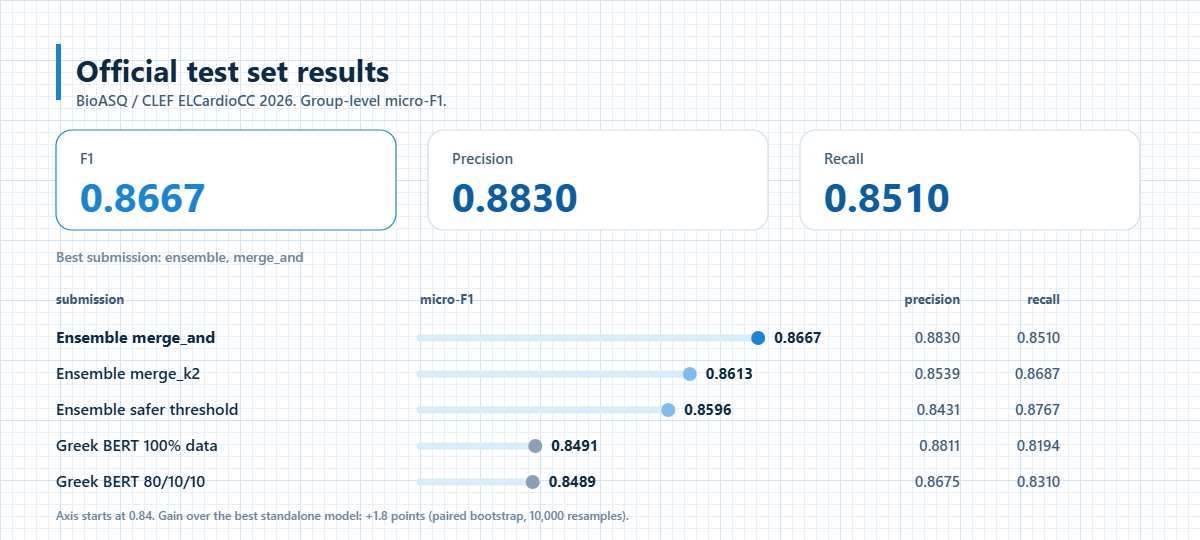
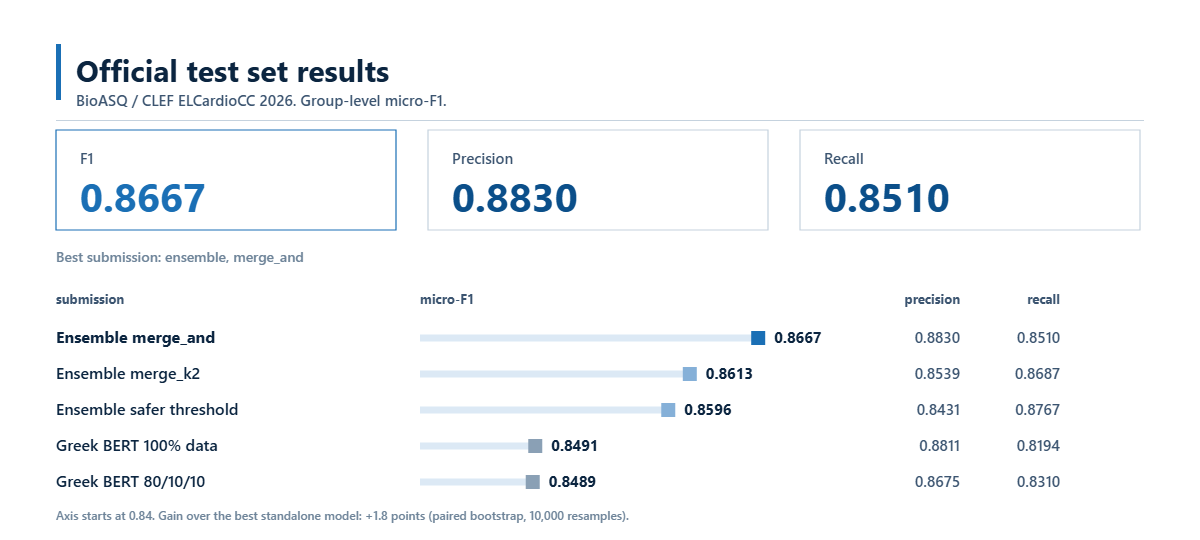
Restyle README animations: plain white, square corners, hairline borders, square markers

diff --git a/docs/readme-demo/common.js b/docs/readme-demo/common.js
@@ -2,19 +2,19 @@
 // render.py calls seek for every frame. Open a scene with ?play to watch it live.
 const C = {
   bg: "#ffffff",
-  panel: "#f3f8fd",
-  grid: "#e6f0f9",
-  gridStrong: "#d3e4f3",
-  rule: "#cfdeeb",
-  ink: "#0f2a43",
-  soft: "#3d5a75",
+  panel: "#f5f8fb",
+  grid: "#e8eef4",
+  gridStrong: "#d5dfe9",
+  rule: "#c5d2de",
+  ink: "#0b2540",
+  soft: "#3b5470",
   muted: "#6e8499",
-  accent: "#1b84d1",
-  accentDeep: "#0d5da0",
-  accentSoft: "#d9ecfa",
+  accent: "#1a6fb5",
+  accentDeep: "#0b4f8a",
+  accentSoft: "#dce9f5",
   slate: "#8aa0b5",
   // sequential accent ramp, light to deep
-  ramp: ["#e3f1fc", "#b8dbf5", "#7fbbec", "#3f97dd", "#0d5da0"],
+  ramp: ["#e6eff8", "#bcd4ea", "#85b0d8", "#3f84c0", "#0b4f8a"],
 };
 const W = 1200;
 const H = 675;
@@ -48,6 +48,7 @@ function text(ctx, s, x, y, o = {}) {
   ctx.font = `${o.weight ?? 500} ${o.size ?? 16}px ${o.mono ? MONO : FONT}`;
   ctx.textAlign = o.align ?? "left";
   ctx.textBaseline = o.base ?? "alphabetic";
+  ctx.letterSpacing = `${o.spacing ?? 0}px`;
   ctx.fillText(s, x, y);
   ctx.restore();
 }
@@ -56,7 +57,7 @@ function rrect(ctx, x, y, w, h, r, fill, stroke, alpha = 1) {
   ctx.save();
   ctx.globalAlpha = alpha;
   ctx.beginPath();
-  ctx.roundRect(x, y, w, h, r);
+  ctx.rect(x, y, w, h); // square corners: r is kept so callers stay unchanged
   if (fill) {
     ctx.fillStyle = fill;
     ctx.fill();
@@ -69,24 +70,9 @@ function rrect(ctx, x, y, w, h, r, fill, stroke, alpha = 1) {
   ctx.restore();
 }
 
-// ECG-paper grid behind everything: small squares every 12 px, bold every 60 px.
-function paper(ctx, w = W, h = H) {
-  ctx.save();
-  for (const [step, col] of [[12, C.grid], [60, C.gridStrong]]) {
-    ctx.strokeStyle = col;
-    ctx.lineWidth = 1;
-    ctx.beginPath();
-    for (let x = 0; x <= w; x += step) {
-      ctx.moveTo(x + 0.5, 0);
-      ctx.lineTo(x + 0.5, h);
-    }
-    for (let y = 0; y <= h; y += step) {
-      ctx.moveTo(0, y + 0.5);
-      ctx.lineTo(w, y + 0.5);
-    }
-    ctx.stroke();
-  }
-  ctx.restore();
+// Square marker, used wherever a dot would be.
+function sq(ctx, x, y, r) {
+  ctx.rect(x - r, y - r, 2 * r, 2 * r);
 }
 
 // Title block: small accent tick, title, one plain caption line.
@@ -96,12 +82,17 @@ function head(ctx, title, sub, alpha = 1, step = "") {
   ctx.fillStyle = C.accent;
   ctx.fillRect(56, 44, 5, 56);
   ctx.restore();
-  if (step) text(ctx, step, 76, 54, { size: 13, weight: 700, color: C.accent, alpha });
+  if (step) text(ctx, step, 76, 54, { size: 12, weight: 700, color: C.accent, alpha, spacing: 2 });
+  ctx.save();
+  ctx.globalAlpha = alpha;
+  ctx.fillStyle = C.rule;
+  ctx.fillRect(56, 120, W - 112, 1);
+  ctx.restore();
   text(ctx, title, 76, 82, { size: 30, weight: 650, alpha });
   text(ctx, sub, 76, 106, { size: 15, color: C.soft, alpha });
 }
 
-function start(draw, bg = true, w = W, h = H) {
+function start(draw, w = W, h = H) {
   const canvas = document.getElementById("c");
   canvas.width = w;
   canvas.height = h;
@@ -110,7 +101,6 @@ function start(draw, bg = true, w = W, h = H) {
     ctx.save();
     ctx.fillStyle = C.bg;
     ctx.fillRect(0, 0, w, h);
-    if (bg) paper(ctx, w, h);
     draw(ctx, t);
     ctx.restore();
   };

diff --git a/docs/readme-demo/hero.js b/docs/readme-demo/hero.js
@@ -36,7 +36,7 @@ function beat1(ctx, t, a) {
   const n = Math.round(p * (T.x.length - 1));
   ctx.strokeStyle = C.accent;
   ctx.lineWidth = 3;
-  ctx.lineJoin = "round";
+  ctx.lineJoin = "miter";
   ctx.beginPath();
   for (let i = 0; i <= n; i++) (i ? ctx.lineTo(X(T.x[i]), Y(T.f1[i])) : ctx.moveTo(X(T.x[i]), Y(T.f1[i])));
   ctx.stroke();
@@ -44,7 +44,7 @@ function beat1(ctx, t, a) {
     ctx.globalAlpha = a * al;
     ctx.fillStyle = col;
     ctx.beginPath();
-    ctx.arc(X(xv), Y(yv), 6, 0, 7);
+    sq(ctx, X(xv), Y(yv), 6);
     ctx.fill();
     text(ctx, lab, X(xv) + dx, Y(yv) + dy, { size: 14, weight: 650, color: col, align: al2, alpha: a * al });
   };
@@ -72,7 +72,7 @@ function beat1(ctx, t, a) {
     ctx.fillStyle = isMoved ? C.accent : C.slate;
     ctx.globalAlpha = a * easeOut(seg(k, 3.0 + (i % 23) * 0.012, 3.35));
     ctx.beginPath();
-    ctx.arc(px, py, 2.4, 0, 7);
+    sq(ctx, px, py, 1.8);
     ctx.fill();
   });
   text(ctx, `${T.labels.length} codes, one dot each`, x0, sy + 44, { size: 13, color: C.soft, alpha: a * seg(k, 3.2, 3.6) });
@@ -110,14 +110,14 @@ function beat2(ctx, t, a) {
     ctx.globalAlpha = a * s;
     ctx.strokeStyle = C.accentSoft;
     ctx.lineWidth = 8;
-    ctx.lineCap = "round";
+    ctx.lineCap = "butt";
     ctx.beginPath();
     ctx.moveTo(x0, y);
     ctx.lineTo(X(v), y);
     ctx.stroke();
     ctx.fillStyle = C.accent;
     ctx.beginPath();
-    ctx.arc(X(v), y, 7, 0, 7);
+    sq(ctx, X(v), y, 7);
     ctx.fill();
     ctx.restore();
     text(ctx, v.toFixed(4), x1 + 36, y + 5, { size: 14, weight: 600, color: C.soft, alpha: a * s });
@@ -156,14 +156,14 @@ function beat2(ctx, t, a) {
     ctx.globalAlpha = a * s;
     ctx.strokeStyle = C.accentSoft;
     ctx.lineWidth = 8;
-    ctx.lineCap = "round";
+    ctx.lineCap = "butt";
     ctx.beginPath();
     ctx.moveTo(tx0 - 40, y + 14);
     ctx.lineTo(TX(v), y + 14);
     ctx.stroke();
     ctx.fillStyle = col;
     ctx.beginPath();
-    ctx.arc(TX(v), y + 14, 8, 0, 7);
+    sq(ctx, TX(v), y + 14, 8);
     ctx.fill();
     ctx.restore();
     text(ctx, v.toFixed(4), TX(v), y + 44, { size: 16, weight: 700, color: col === C.slate ? C.ink : C.accentDeep, align: "center", alpha: a * s });
@@ -239,7 +239,7 @@ start((ctx, t) => {
   [B1, B2, B3].forEach((b, i) => {
     ctx.fillStyle = t >= b[0] && t < b[1] ? C.accent : C.rule;
     ctx.beginPath();
-    ctx.arc(1100 + i * 18, 52, 5, 0, 7);
+    sq(ctx, 1100 + i * 18, 52, 5);
     ctx.fill();
   });
 });

diff --git a/docs/readme-demo/results.js b/docs/readme-demo/results.js
@@ -27,18 +27,18 @@ start((ctx) => {
     text(ctx, nm, 56, y + 5, { size: 16, weight: top ? 650 : 500 });
     ctx.strokeStyle = C.accentSoft;
     ctx.lineWidth = 7;
-    ctx.lineCap = "round";
+    ctx.lineCap = "butt";
     ctx.beginPath();
     ctx.moveTo(x0, y);
     ctx.lineTo(X(f), y);
     ctx.stroke();
     ctx.fillStyle = top ? C.accent : nm.startsWith("Greek") ? C.slate : C.ramp[2];
     ctx.beginPath();
-    ctx.arc(X(f), y, 7, 0, 7);
+    sq(ctx, X(f), y, 7);
     ctx.fill();
     text(ctx, f.toFixed(4), X(f) + 16, y + 5, { size: 15, weight: 700 });
     text(ctx, pr.toFixed(4), 960, y + 5, { size: 15, color: C.soft, align: "right" });
     text(ctx, rc.toFixed(4), 1060, y + 5, { size: 15, color: C.soft, align: "right" });
   });
   text(ctx, "Axis starts at 0.84. Gain over the best standalone model: +1.8 points (paired bootstrap, 10,000 resamples).", 56, 520, { size: 12, color: C.muted });
-}, true, 1200, H2);
+}, 1200, H2);

diff --git a/docs/readme-demo/pipeline.js b/docs/readme-demo/pipeline.js
@@ -89,7 +89,7 @@ function step4(ctx, k, a) {
       rrect(ctx, gx + c * (cw + 8), gy + r * (ch + 8), cw, ch, 8, win ? C.accent : on ? C.ramp[1 + ((c + r * 3) % 3)] : "#ffffff", win ? null : C.rule, a);
     }
   }
-  text(ctx, "illustrative grid: strategies across, operators down; one cell wins", 76, 440, { size: 13, color: C.muted, alpha: a * seg(k, 1.0, 1.5) });
+  text(ctx, "illustrative grid: strategies across, operators down; one cell wins", 76, 470, { size: 13, color: C.muted, alpha: a * seg(k, 1.0, 1.5) });
   const big = easeOut(seg(k, 0.8, 1.4));
   text(ctx, "10,000 evaluations × 2 restarts × 2 optimisers", 76, 500, { size: 20, weight: 650, alpha: a * big });
   text(ctx, "under 5 minutes on CPU", 76, 530, { size: 16, color: C.accentDeep, weight: 650, alpha: a * big });

diff --git a/docs/readme-demo/evidence.js b/docs/readme-demo/evidence.js
@@ -66,7 +66,7 @@ start((ctx, t) => {
   ctx.stroke();
   ctx.fillStyle = C.accentDeep;
   ctx.beginPath();
-  ctx.arc(X(B.mean), yb + 62, 7, 0, 7);
+  sq(ctx, X(B.mean), yb + 62, 7);
   ctx.fill();
   ctx.restore();
   text(ctx, `mean +${B.mean.toFixed(4)}   95% interval [+${B.lo.toFixed(4)}, +${B.hi.toFixed(4)}]`, X(B.mean), yb + 82, { size: 14, weight: 650, color: C.accentDeep, align: "center", alpha: ia });
